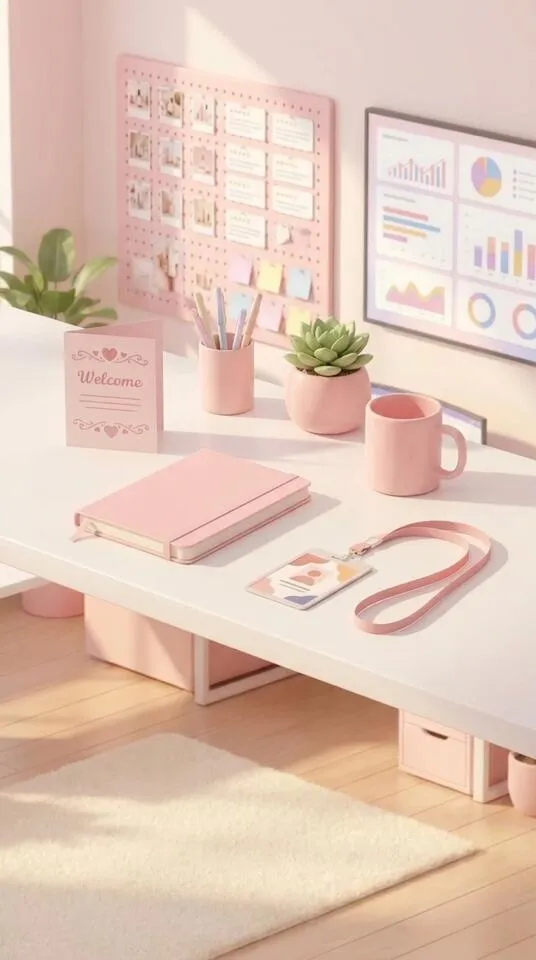
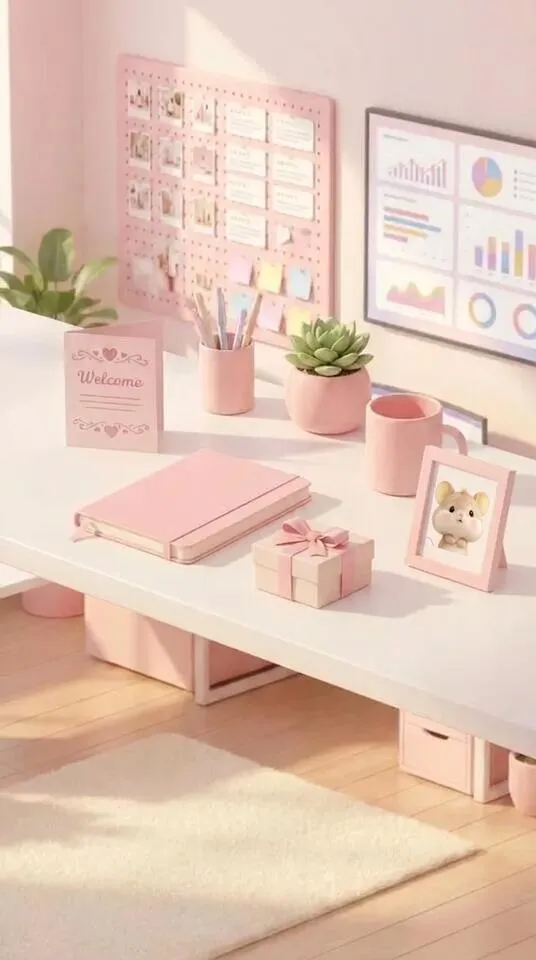
투어 그림 정리: 험쮜 책상 사진 액자, 부장실 2장, 옥상 2장째 교체
Claude-Session: https://claude.ai/code/session_013o6MwTRjv9wdDZ1RWn6mmU

Changed region(s): [[0.4478, 0.4688, 1.0, 0.6875], [0.8955, 0.4375, 0.9254, 0.4688]]

diff --git a/sw.js b/sw.js
@@ -1,6 +1,6 @@
 // 자동 생성 파일: tools/build.py가 만든다. 직접 고치지 말고 tools/sw.template.js를 고칠 것
-const CACHE='humzzwi-2026.10.10-7b17c0';
-const ASSETS=["./", "index.html", "manifest.json", "icon-192.png", "icon-512.png", "apple-touch-icon.png", "fonts/GowunDodum-Regular.woff2", "fonts/Jua-Regular.woff2", "assets/a_bear.webp", "assets/a_daram.webp", "assets/a_daram_f.webp", "assets/a_eunbin.webp", "assets/a_fox.webp", "assets/a_hanmin.webp", "assets/a_hyunsu.webp", "assets/a_hz_walk.webp", "assets/a_hz_walk_b.webp", "assets/a_jaemin.webp", "assets/a_jiyoung.webp", "assets/a_lab.webp", "assets/a_sangho.webp", "assets/a_seohwi.webp", "assets/a_sumin.webp", "assets/badge.webp", "assets/c_ai.webp", "assets/c_ai_b.webp", "assets/c_blind.webp", "assets/c_blind_b.webp", "assets/c_blog.webp", "assets/c_blog_b.webp", "assets/c_cafe.webp", "assets/c_cafe_b.webp", "assets/c_coffee.webp", "assets/c_coffee_b.webp", "assets/c_content.webp", "assets/c_content_b.webp", "assets/c_cs.webp", "assets/c_cs_b.webp", "assets/c_date.webp", "assets/c_date_b.webp", "assets/c_daytrip.webp", "assets/c_daytrip_b.webp", "assets/c_english.webp", "assets/c_english_b.webp", "assets/c_erp.webp", "assets/c_erp_b.webp", "assets/c_ev_ceo.webp", "assets/c_ev_ceo_b.webp", "assets/c_ev_jobup.webp", "assets/c_ev_jobup_b.webp", "assets/c_ev_promo.webp", "assets/c_ev_promo_b.webp", "assets/c_excel.webp", "assets/c_excel_b.webp", "assets/c_filling.webp", "assets/c_filling_b.webp", "assets/c_formula.webp", "assets/c_formula_b.webp", "assets/c_friends.webp", "assets/c_friends_b.webp", "assets/c_global.webp", "assets/c_global_b.webp", "assets/c_gym.webp", "assets/c_gym_b.webp", "assets/c_half.webp", "assets/c_half_b.webp", "assets/c_ingredient.webp", "assets/c_ingredient_b.webp", "assets/c_jeju.webp", "assets/c_jeju_b.webp", "assets/c_keymsg.webp", "assets/c_keymsg_b.webp", "assets/c_leave.webp", "assets/c_leave_b.webp", "assets/c_lecture.webp", "assets/c_lecture_b.webp", "assets/c_license.webp", "assets/c_license_b.webp", "assets/c_logistics.webp", "assets/c_logistics_b.webp", "assets/c_mba.webp", "assets/c_mba_b.webp", "assets/c_md.webp", "assets/c_md_b.webp", "assets/c_minutes.webp", "assets/c_minutes_b.webp", "assets/c_orient.webp", "assets/c_orient_b.webp", "assets/c_overtime.webp", "assets/c_overtime_b.webp", "assets/c_package.webp", "assets/c_package_b.webp", "assets/c_pilates.webp", "assets/c_pilates_b.webp", "assets/c_pt.webp", "assets/c_pt_b.webp", "assets/c_research.webp", "assets/c_research_b.webp", "assets/c_review.webp", "assets/c_review_b.webp", "assets/c_run.webp", "assets/c_run_b.webp", "assets/c_schedule.webp", "assets/c_schedule_b.webp", "assets/c_selfdate.webp", "assets/c_selfdate_b.webp", "assets/c_settle.webp", "assets/c_settle_b.webp", "assets/c_shoot.webp", "assets/c_shoot_b.webp", "assets/c_shop_hb.webp", "assets/c_shop_hb_b.webp", "assets/c_shop_mall.webp", "assets/c_shop_mall_b.webp", "assets/c_shop_online.webp", "assets/c_shop_online_b.webp", "assets/c_snack.webp", "assets/c_snack_b.webp", "assets/c_store.webp", "assets/c_store_b.webp", "assets/c_tokyo.webp", "assets/c_tokyo_b.webp", "assets/c_trip.webp", "assets/c_trip_b.webp", "assets/c_walk.webp", "assets/c_walk_b.webp", "assets/d_coffeechat_f.webp", "assets/d_coffeechat_f_b.webp", "assets/d_coffeechat_m.webp", "assets/d_coffeechat_m_b.webp", "assets/d_coffeeget_f.webp", "assets/d_coffeeget_f_b.webp", "assets/d_coffeeget_m.webp", "assets/d_coffeeget_m_b.webp", "assets/d_coffeegive_f.webp", "assets/d_coffeegive_f_b.webp", "assets/d_coffeegive_m.webp", "assets/d_coffeegive_m_b.webp", "assets/d_coffeeshare_f.webp", "assets/d_coffeeshare_f_b.webp", "assets/d_coffeeshare_m.webp", "assets/d_coffeeshare_m_b.webp", "assets/d_confess_f.webp", "assets/d_confess_f_b.webp", "assets/d_confess_m.webp", "assets/d_confess_m_b.webp", "assets/d_picnic_f.webp", "assets/d_picnic_f_b.webp", "assets/d_picnic_m.webp", "assets/d_picnic_m_b.webp", "assets/d_ramen_f.webp", "assets/d_ramen_f_b.webp", "assets/d_ramen_m.webp", "assets/d_ramen_m_b.webp", "assets/ev_arrive.webp", "assets/ev_arrive_b.webp", "assets/ev_building.webp", "assets/ev_dinner.webp", "assets/ev_overload.webp", "assets/ev_pass.webp", "assets/ev_pass_b.webp", "assets/ev_present.webp", "assets/ev_reject.webp", "assets/ev_reject_b.webp", "assets/ev_studio.webp", "assets/ev_studio_b.webp", "assets/ev_subway.webp", "assets/ev_subway_b.webp", "assets/f_bear.webp", "assets/f_ceo.webp", "assets/f_daram.webp", "assets/f_daram_f.webp", "assets/f_eunbin.webp", "assets/f_fox.webp", "assets/f_hanmin.webp", "assets/f_hyunsu.webp", "assets/f_hz.webp", "assets/f_jaemin.webp", "assets/f_jiyoung.webp", "assets/f_lab.webp", "assets/f_sangho.webp", "assets/f_seohwi.webp", "assets/f_sumin.webp", "assets/hz.png", "assets/id_bad.webp", "assets/id_good.webp", "assets/id_ok.webp", "assets/lunch.webp", "assets/m_box.webp", "assets/m_box_b.webp", "assets/m_fit.webp", "assets/m_fit_b.webp", "assets/m_lab.webp", "assets/m_lab_b.webp", "assets/m_phone.webp", "assets/m_phone_b.webp", "assets/m_study.webp", "assets/m_study_b.webp", "assets/pl_boss.webp", "assets/pl_cafe.webp", "assets/pl_lab.webp", "assets/pl_mkt.webp", "assets/pl_ops.webp", "assets/pl_roof.webp", "assets/pl_sales.webp", "assets/pl_strat.webp", "assets/pl_studio.webp", "assets/pl_wh.webp", "assets/s_ceo.webp", "assets/s_coffee.webp", "assets/s_coffee_b.webp", "assets/s_dark.webp", "assets/s_dark_b.webp", "assets/s_desk.webp", "assets/s_desk_b.webp", "assets/s_eat.webp", "assets/s_eat_b.webp", "assets/s_jump.webp", "assets/s_jump_b.webp", "assets/s_sleep.webp", "assets/s_sleep_b.webp", "assets/s_walk.webp", "assets/s_walk_b.webp", "assets/sc_cafe.webp", "assets/sc_factory.webp", "assets/sc_gym.webp", "assets/sc_home.webp", "assets/sc_lab.webp", "assets/sc_meeting.webp", "assets/sc_office.webp", "assets/sc_package.webp", "assets/sc_park.webp", "assets/sc_popup.webp", "assets/sc_rain.webp", "assets/sc_store.webp", "assets/sc_studio.webp", "assets/sc_study.webp", "assets/tp_boss_1.webp", "assets/tp_cafe_1.webp", "assets/tp_cafe_2.webp", "assets/tp_lab_1.webp", "assets/tp_lab_2.webp", "assets/tp_mkt_1.webp", "assets/tp_mkt_2.webp", "assets/tp_ops_1.webp", "assets/tp_ops_2.webp", "assets/tp_roof_1.webp", "assets/tp_sales_1.webp", "assets/tp_sales_2.webp", "assets/tp_strat_1.webp", "assets/tp_strat_2.webp", "assets/tp_studio_1.webp", "assets/tp_studio_2.webp", "assets/tp_wh_1.webp", "assets/tp_wh_2.webp", "assets/v_short.webp", "assets/v_short_b.webp"];
+const CACHE='humzzwi-2026.10.10-ce0ccd';
+const ASSETS=["./", "index.html", "manifest.json", "icon-192.png", "icon-512.png", "apple-touch-icon.png", "fonts/GowunDodum-Regular.woff2", "fonts/Jua-Regular.woff2", "assets/a_bear.webp", "assets/a_daram.webp", "assets/a_daram_f.webp", "assets/a_eunbin.webp", "assets/a_fox.webp", "assets/a_hanmin.webp", "assets/a_hyunsu.webp", "assets/a_hz_walk.webp", "assets/a_hz_walk_b.webp", "assets/a_jaemin.webp", "assets/a_jiyoung.webp", "assets/a_lab.webp", "assets/a_sangho.webp", "assets/a_seohwi.webp", "assets/a_sumin.webp", "assets/badge.webp", "assets/c_ai.webp", "assets/c_ai_b.webp", "assets/c_blind.webp", "assets/c_blind_b.webp", "assets/c_blog.webp", "assets/c_blog_b.webp", "assets/c_cafe.webp", "assets/c_cafe_b.webp", "assets/c_coffee.webp", "assets/c_coffee_b.webp", "assets/c_content.webp", "assets/c_content_b.webp", "assets/c_cs.webp", "assets/c_cs_b.webp", "assets/c_date.webp", "assets/c_date_b.webp", "assets/c_daytrip.webp", "assets/c_daytrip_b.webp", "assets/c_english.webp", "assets/c_english_b.webp", "assets/c_erp.webp", "assets/c_erp_b.webp", "assets/c_ev_ceo.webp", "assets/c_ev_ceo_b.webp", "assets/c_ev_jobup.webp", "assets/c_ev_jobup_b.webp", "assets/c_ev_promo.webp", "assets/c_ev_promo_b.webp", "assets/c_excel.webp", "assets/c_excel_b.webp", "assets/c_filling.webp", "assets/c_filling_b.webp", "assets/c_formula.webp", "assets/c_formula_b.webp", "assets/c_friends.webp", "assets/c_friends_b.webp", "assets/c_global.webp", "assets/c_global_b.webp", "assets/c_gym.webp", "assets/c_gym_b.webp", "assets/c_half.webp", "assets/c_half_b.webp", "assets/c_ingredient.webp", "assets/c_ingredient_b.webp", "assets/c_jeju.webp", "assets/c_jeju_b.webp", "assets/c_keymsg.webp", "assets/c_keymsg_b.webp", "assets/c_leave.webp", "assets/c_leave_b.webp", "assets/c_lecture.webp", "assets/c_lecture_b.webp", "assets/c_license.webp", "assets/c_license_b.webp", "assets/c_logistics.webp", "assets/c_logistics_b.webp", "assets/c_mba.webp", "assets/c_mba_b.webp", "assets/c_md.webp", "assets/c_md_b.webp", "assets/c_minutes.webp", "assets/c_minutes_b.webp", "assets/c_orient.webp", "assets/c_orient_b.webp", "assets/c_overtime.webp", "assets/c_overtime_b.webp", "assets/c_package.webp", "assets/c_package_b.webp", "assets/c_pilates.webp", "assets/c_pilates_b.webp", "assets/c_pt.webp", "assets/c_pt_b.webp", "assets/c_research.webp", "assets/c_research_b.webp", "assets/c_review.webp", "assets/c_review_b.webp", "assets/c_run.webp", "assets/c_run_b.webp", "assets/c_schedule.webp", "assets/c_schedule_b.webp", "assets/c_selfdate.webp", "assets/c_selfdate_b.webp", "assets/c_settle.webp", "assets/c_settle_b.webp", "assets/c_shoot.webp", "assets/c_shoot_b.webp", "assets/c_shop_hb.webp", "assets/c_shop_hb_b.webp", "assets/c_shop_mall.webp", "assets/c_shop_mall_b.webp", "assets/c_shop_online.webp", "assets/c_shop_online_b.webp", "assets/c_snack.webp", "assets/c_snack_b.webp", "assets/c_store.webp", "assets/c_store_b.webp", "assets/c_tokyo.webp", "assets/c_tokyo_b.webp", "assets/c_trip.webp", "assets/c_trip_b.webp", "assets/c_walk.webp", "assets/c_walk_b.webp", "assets/d_coffeechat_f.webp", "assets/d_coffeechat_f_b.webp", "assets/d_coffeechat_m.webp", "assets/d_coffeechat_m_b.webp", "assets/d_coffeeget_f.webp", "assets/d_coffeeget_f_b.webp", "assets/d_coffeeget_m.webp", "assets/d_coffeeget_m_b.webp", "assets/d_coffeegive_f.webp", "assets/d_coffeegive_f_b.webp", "assets/d_coffeegive_m.webp", "assets/d_coffeegive_m_b.webp", "assets/d_coffeeshare_f.webp", "assets/d_coffeeshare_f_b.webp", "assets/d_coffeeshare_m.webp", "assets/d_coffeeshare_m_b.webp", "assets/d_confess_f.webp", "assets/d_confess_f_b.webp", "assets/d_confess_m.webp", "assets/d_confess_m_b.webp", "assets/d_picnic_f.webp", "assets/d_picnic_f_b.webp", "assets/d_picnic_m.webp", "assets/d_picnic_m_b.webp", "assets/d_ramen_f.webp", "assets/d_ramen_f_b.webp", "assets/d_ramen_m.webp", "assets/d_ramen_m_b.webp", "assets/ev_arrive.webp", "assets/ev_arrive_b.webp", "assets/ev_building.webp", "assets/ev_dinner.webp", "assets/ev_overload.webp", "assets/ev_pass.webp", "assets/ev_pass_b.webp", "assets/ev_present.webp", "assets/ev_reject.webp", "assets/ev_reject_b.webp", "assets/ev_studio.webp", "assets/ev_studio_b.webp", "assets/ev_subway.webp", "assets/ev_subway_b.webp", "assets/f_bear.webp", "assets/f_ceo.webp", "assets/f_daram.webp", "assets/f_daram_f.webp", "assets/f_eunbin.webp", "assets/f_fox.webp", "assets/f_hanmin.webp", "assets/f_hyunsu.webp", "assets/f_hz.webp", "assets/f_jaemin.webp", "assets/f_jiyoung.webp", "assets/f_lab.webp", "assets/f_sangho.webp", "assets/f_seohwi.webp", "assets/f_sumin.webp", "assets/hz.png", "assets/id_bad.webp", "assets/id_good.webp", "assets/id_ok.webp", "assets/lunch.webp", "assets/m_box.webp", "assets/m_box_b.webp", "assets/m_fit.webp", "assets/m_fit_b.webp", "assets/m_lab.webp", "assets/m_lab_b.webp", "assets/m_phone.webp", "assets/m_phone_b.webp", "assets/m_study.webp", "assets/m_study_b.webp", "assets/pl_boss.webp", "assets/pl_cafe.webp", "assets/pl_lab.webp", "assets/pl_mkt.webp", "assets/pl_ops.webp", "assets/pl_roof.webp", "assets/pl_sales.webp", "assets/pl_strat.webp", "assets/pl_studio.webp", "assets/pl_wh.webp", "assets/s_ceo.webp", "assets/s_coffee.webp", "assets/s_coffee_b.webp", "assets/s_dark.webp", "assets/s_dark_b.webp", "assets/s_desk.webp", "assets/s_desk_b.webp", "assets/s_eat.webp", "assets/s_eat_b.webp", "assets/s_jump.webp", "assets/s_jump_b.webp", "assets/s_sleep.webp", "assets/s_sleep_b.webp", "assets/s_walk.webp", "assets/s_walk_b.webp", "assets/sc_cafe.webp", "assets/sc_factory.webp", "assets/sc_gym.webp", "assets/sc_home.webp", "assets/sc_lab.webp", "assets/sc_meeting.webp", "assets/sc_office.webp", "assets/sc_package.webp", "assets/sc_park.webp", "assets/sc_popup.webp", "assets/sc_rain.webp", "assets/sc_store.webp", "assets/sc_studio.webp", "assets/sc_study.webp", "assets/tp_boss_1.webp", "assets/tp_boss_2.webp", "assets/tp_cafe_1.webp", "assets/tp_cafe_2.webp", "assets/tp_lab_1.webp", "assets/tp_lab_2.webp", "assets/tp_mkt_1.webp", "assets/tp_mkt_2.webp", "assets/tp_ops_1.webp", "assets/tp_ops_2.webp", "assets/tp_roof_1.webp", "assets/tp_roof_2.webp", "assets/tp_sales_1.webp", "assets/tp_sales_2.webp", "assets/tp_strat_1.webp", "assets/tp_strat_2.webp", "assets/tp_studio_1.webp", "assets/tp_studio_2.webp", "assets/tp_wh_1.webp", "assets/tp_wh_2.webp", "assets/v_short.webp", "assets/v_short_b.webp"];
 self.addEventListener('install',e=>{self.skipWaiting();e.waitUntil((async()=>{
   const c=await caches.open(CACHE),total=ASSETS.length,all=async()=>self.clients.matchAll({includeUncontrolled:true});
   for(let i=0;i<total;i+=8){

diff --git a/index.html b/index.html
@@ -7,7 +7,7 @@
 <meta name="apple-mobile-web-app-capable" content="yes"><meta name="mobile-web-app-capable" content="yes">
 <meta name="apple-mobile-web-app-status-bar-style" content="black-translucent"><meta name="apple-mobile-web-app-title" content="험쮜메이커">
 <meta name="theme-color" content="#2a1f33">
-<link rel="manifest" href="manifest.json?v=7b17c0"><link rel="apple-touch-icon" sizes="180x180" href="apple-touch-icon.png?v=7b17c0"><link rel="icon" type="image/png" sizes="192x192" href="icon-192.png?v=7b17c0">
+<link rel="manifest" href="manifest.json?v=ce0ccd"><link rel="apple-touch-icon" sizes="180x180" href="apple-touch-icon.png?v=ce0ccd"><link rel="icon" type="image/png" sizes="192x192" href="icon-192.png?v=ce0ccd">
 <style>
 /* 글꼴은 파일로 같이 들고 다닌다 (비행기 모드에서도 같은 모양) */
 @font-face{font-family:"Jua";src:url(fonts/Jua-Regular.woff2) format("woff2");font-display:swap}
@@ -3665,7 +3665,7 @@ const TOUR=[
   ['cafe','1층 카페예요. 출근하면 여기서 커피부터! 지친 날엔 잠깐 쉬어 가도 돼요.\n가끔 다른 팀 사람들이 쉬러 내려와서, 우연히 마주치기도 해요.','오늘의 원두는 고소한 맛. 라떼 아트는 바리스타님 특기래요.'],
   ['sales','2층 영업팀. H&B 스토어·자사몰·해외 바이어까지, 화장품이 팔리는 길을 뚫는 곳이에요.','매장에 나갈 샘플이랑 카탈로그가 매일 여기서 출발해요.'],
   ['ops','같은 층 경영지원팀. ERP 재고, 법인카드 정산, 예산… 회사가 흔들리지 않게 기준을 세워요.','영수증 정리의 성지. 여기 서랍은 함부로 열면 안 돼요.'],
-  ['mkt','3층 마케팅팀! 험쮜 님 자리가 바로 여기예요. 브랜드 메시지랑 리뷰 데이터를 다뤄요.','그리고… 여기가 험쮜 님 자리! 환영 카드도 놓여 있어요.'],
+  ['mkt','3층 마케팅팀! 험쮜 님 자리가 바로 여기예요. 브랜드 메시지랑 리뷰 데이터를 다뤄요.','그리고… 여기가 험쮜 님 자리! 환영 카드랑 웰컴 선물, 사진 액자까지 준비해 뒀어요.'],
   ['studio','옆방 스튜디오에선 숏폼이랑 제품 사진을 찍어요. 조명 선 조심하세요!','제품 컷 하나에 조명만 세 개. 반짝임은 다 계산된 거예요.'],
   ['strat','4층 전략기획팀. 시장을 읽어 카테고리를 정하고, 용기·패키지를 설계해요.','용기 시제품이랑 컬러칩. STAGE:ZERO의 얼굴이 여기서 정해져요.'],
   ['lab','연구실이에요. 처방 성분을 맞추는 곳. 실험대 위 비커는 함부로 만지면 안 돼요!','크림 한 통에 처방이 수십 번 바뀐대요.'],
@@ -3674,7 +3674,7 @@ const TOUR=[
   ['wh','마지막으로 지하 물류 창고. OEM 충진부터 출고까지, 제품이 여기서 고객에게 떠나요.','충진 라인에서 막 나온 병들. 고객에게 가는 마지막 길이에요.'],
 ];
 // 그림 1장만 보여 주는 장소
-const TOUR_ONE=new Set(['boss','roof']);
+const TOUR_ONE=new Set([]);
 const HELLO={
   sangho:'이상호 사업부장이에요. 영업팀이랑 STAGE:ZERO TF를 맡고 있어요.\n전체 판을 읽는 법, 천천히 알려 줄게요.',
   daram:'한다람 주임입니다! 매장 돌고 바이어 만나는 게 일이에요.\n…커피는 아아파예요. 그냥 참고로요.',
@@ -3773,7 +3773,7 @@ $('#btn-start').onclick=async()=>{
 setSound(AU.on);
 /* ================= 빌드 코드 · 오프라인(홈 화면 앱) =================
    tools/build.py가 BUILD를 매긴다. 홈 화면에 추가하면 처음 한 번 그림을 전부 받아 두고, 그 뒤로는 비행기 모드에서도 실행된다 */
-const BUILD='2026.10.10-7b17c0';
+const BUILD='2026.10.10-ce0ccd';
 $('#build-title').textContent=$('#build-menu').textContent=`빌드 ${BUILD}`;
 if('serviceWorker' in navigator&&/^https?:$/.test(location.protocol)){
   const bar=document.createElement('div');bar.className='sw-bar';bar.hidden=true;document.body.appendChild(bar);

diff --git a/README.md b/README.md
@@ -29,7 +29,7 @@
 - 목표: 인턴에서 CEO까지. 3개월마다 분기 평가(12번), 인턴 → 사원 → 주임 → 대리 → 팀장 → 이사 → CEO. 대리는 론칭, 팀장·이사는 월 매출, CEO는 해외 1곳 이상 + 브랜드 점수 68↑ + 상사 평가 60↑ + 동료 평균 ♥45↑
 - 연말: 1년차는 연말정산 퀴즈 + 「막내 장기자랑」, 2년차는 자동 연말정산 + 「시크릿 산타」 + 「K-뷰티 어워즈」
 - 📤 엔딩 도감 공유: 도감·엔딩 화면의 공유 버튼 → 도감 카드 그림(1080×1350) + 링크(#dex=…)를 휴대폰 공유창(카톡·인스타 등)으로 보냄. 링크를 연 친구는 「친구의 엔딩 도감」에서 내 도감과 비교(✓ 나도 · 나는 아직!)
-- 대화 스탠딩: 동료는 대화창 뒤 레이어에 서고, ♥가 높을수록 가까이 — 어색할 땐(♥0) 멀리서 작게 전신(발끝이 대화창 위) → 친해질수록 커져서 단짝(♥80)이면 허리 위 상반신이 꽉 참. 아무리 가까워도 머리~허리 상반신과 양팔은 화면 안에 다 보이게(넓은 그림은 폭에 맞춤). 그림 위쪽 한계는 상태창의 실제 아래 끝(아이폰 노치 포함)을 재서 정하고, 대화 중엔 목표 알약·머리 위 이름표를 숨김(이름·♥는 대화창 이름줄에). 선택지는 얼굴 칸까지 넓게. 스케줄·활동 그림이 대화창에 나올 땐 뒤 장면 배경을 빼고 그 그림을 흐리게 깔아 그림 하나에만 눈이 가게. 스케줄(자기계발·휴식·부업 등)은 카드 하나로: 진행 막대가 끝나면 같은 카드 아래가 결과 글·능력치 변화·다음 버튼으로 바뀜(그림은 한 번만, 진행·결과 카드 크기 같음). 스케줄·회사일 카드 배경은 분홍 땡땡이(body[data-mbg] A, B 모눈·C 장소 어둡게도 있음). 카드는 상태창 아래 공간 가운데에, 글이 길면 그림 칸만 낮춰 한 화면에. 상단 자원 줄은 날짜 상자·내 프로필 이름표 아래로 내려 겹치지 않게, 폭이 모자라면 라벨 없이 아이콘+숫자만. 회사일(미니게임 뒤 포함) 결과도 같은 가운데 카드로, 얻은 능력치·상태 변화는 더보기 없이 전부. 미니게임 화면만 그 장소 배경, 진행·결과 카드는 모두 분홍 땡땡이. 장소 배경은 화면 위·아래 끝까지 꽉 채움(상태창·대화창이 그 위에). 인물 크기는 대화창 길이와 상관없이 「짧은 대화창」 기준으로 고정(길어지면 대화창이 덮음). 결과 다음 한 번 더 누르면 같은 카드에 「지금 험쮜는」 능력치 6종·체력·스트레스 막대(이번에 오른 만큼 밝게). 그림이 든 대화창(데이트·이벤트 장면)은 상태창 아래 공간 가운데에. 빌딩 화면 외관은 파스텔 동화 빌딩(분홍 세모 지붕 「CANVAS LAB」 간판·구름 하늘·크림 벽·1F 잔디·지하 B1). 하늘·땅 배경은 건물과 함께 스크롤(background-attachment:local), 옆 흔들림·고무줄 튕김 없음. 입사 첫날 「회사 한 바퀴」 투어: 사수 서휘가 1F 카페→2F 영업·경영지원→3F 마케팅·스튜디오→4F 전략기획·연구실→5F 부장실→옥상→B1 창고를 안내 — 장소마다 서휘 안내 → 「👀 둘러보기」를 누르면 장소만 담은 세로 일러스트 2장(tp_장소_1·_2, 부장실·옥상은 1장)을 화면 가득 보여 주고, 그다음 처음 만나는 동료는 자기소개. 시작 전 「건너뛰기」·장소마다 「남은 투어 건너뛰기」
+- 대화 스탠딩: 동료는 대화창 뒤 레이어에 서고, ♥가 높을수록 가까이 — 어색할 땐(♥0) 멀리서 작게 전신(발끝이 대화창 위) → 친해질수록 커져서 단짝(♥80)이면 허리 위 상반신이 꽉 참. 아무리 가까워도 머리~허리 상반신과 양팔은 화면 안에 다 보이게(넓은 그림은 폭에 맞춤). 그림 위쪽 한계는 상태창의 실제 아래 끝(아이폰 노치 포함)을 재서 정하고, 대화 중엔 목표 알약·머리 위 이름표를 숨김(이름·♥는 대화창 이름줄에). 선택지는 얼굴 칸까지 넓게. 스케줄·활동 그림이 대화창에 나올 땐 뒤 장면 배경을 빼고 그 그림을 흐리게 깔아 그림 하나에만 눈이 가게. 스케줄(자기계발·휴식·부업 등)은 카드 하나로: 진행 막대가 끝나면 같은 카드 아래가 결과 글·능력치 변화·다음 버튼으로 바뀜(그림은 한 번만, 진행·결과 카드 크기 같음). 스케줄·회사일 카드 배경은 분홍 땡땡이(body[data-mbg] A, B 모눈·C 장소 어둡게도 있음). 카드는 상태창 아래 공간 가운데에, 글이 길면 그림 칸만 낮춰 한 화면에. 상단 자원 줄은 날짜 상자·내 프로필 이름표 아래로 내려 겹치지 않게, 폭이 모자라면 라벨 없이 아이콘+숫자만. 회사일(미니게임 뒤 포함) 결과도 같은 가운데 카드로, 얻은 능력치·상태 변화는 더보기 없이 전부. 미니게임 화면만 그 장소 배경, 진행·결과 카드는 모두 분홍 땡땡이. 장소 배경은 화면 위·아래 끝까지 꽉 채움(상태창·대화창이 그 위에). 인물 크기는 대화창 길이와 상관없이 「짧은 대화창」 기준으로 고정(길어지면 대화창이 덮음). 결과 다음 한 번 더 누르면 같은 카드에 「지금 험쮜는」 능력치 6종·체력·스트레스 막대(이번에 오른 만큼 밝게). 그림이 든 대화창(데이트·이벤트 장면)은 상태창 아래 공간 가운데에. 빌딩 화면 외관은 파스텔 동화 빌딩(분홍 세모 지붕 「CANVAS LAB」 간판·구름 하늘·크림 벽·1F 잔디·지하 B1). 하늘·땅 배경은 건물과 함께 스크롤(background-attachment:local), 옆 흔들림·고무줄 튕김 없음. 입사 첫날 「회사 한 바퀴」 투어: 사수 서휘가 1F 카페→2F 영업·경영지원→3F 마케팅·스튜디오→4F 전략기획·연구실→5F 부장실→옥상→B1 창고를 안내 — 장소마다 서휘 안내 → 「👀 둘러보기」를 누르면 장소만 담은 세로 일러스트 2장(tp_장소_1·_2, 험쮜 책상엔 험쮜 사진 액자·웰컴 선물)을 화면 가득 보여 주고, 그다음 처음 만나는 동료는 자기소개. 시작 전 「건너뛰기」·장소마다 「남은 투어 건너뛰기」
 - 커피 사 가기(영업팀에 다람 주임이 있을 때): 설렘 단계(어색·썸·연인)에 따라 그림과 대사가 달라짐
 - 예전 사무실 대화·업무 회의·생산 라인·팀 배치 코드는 남아 있지만 한 달 흐름에서는 쓰지 않음
 - **홈 화면 앱 · 비행기 모드**: 사파리에서 https://3678132-rgb.github.io/humzzwi-maker/ 열기 → 공유 → 홈 화면에 추가. 처음 한 번 온라인에서 열면 그림·글꼴 223개를 받아 두고(「오프라인 준비 완료」 표시), 그 뒤로는 비행기 모드에서도 실행. 새 버전은 온라인일 때 받아 두었다가 타이틀 화면에서 적용
